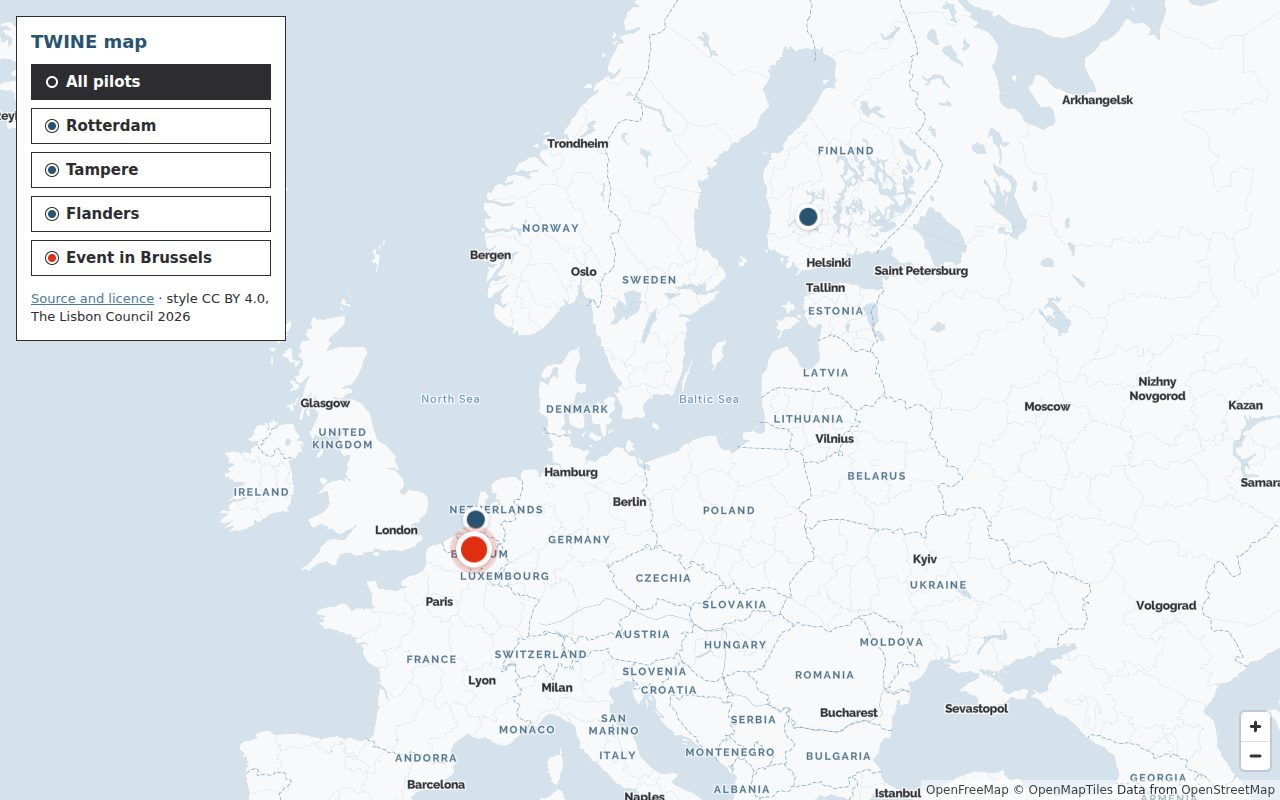
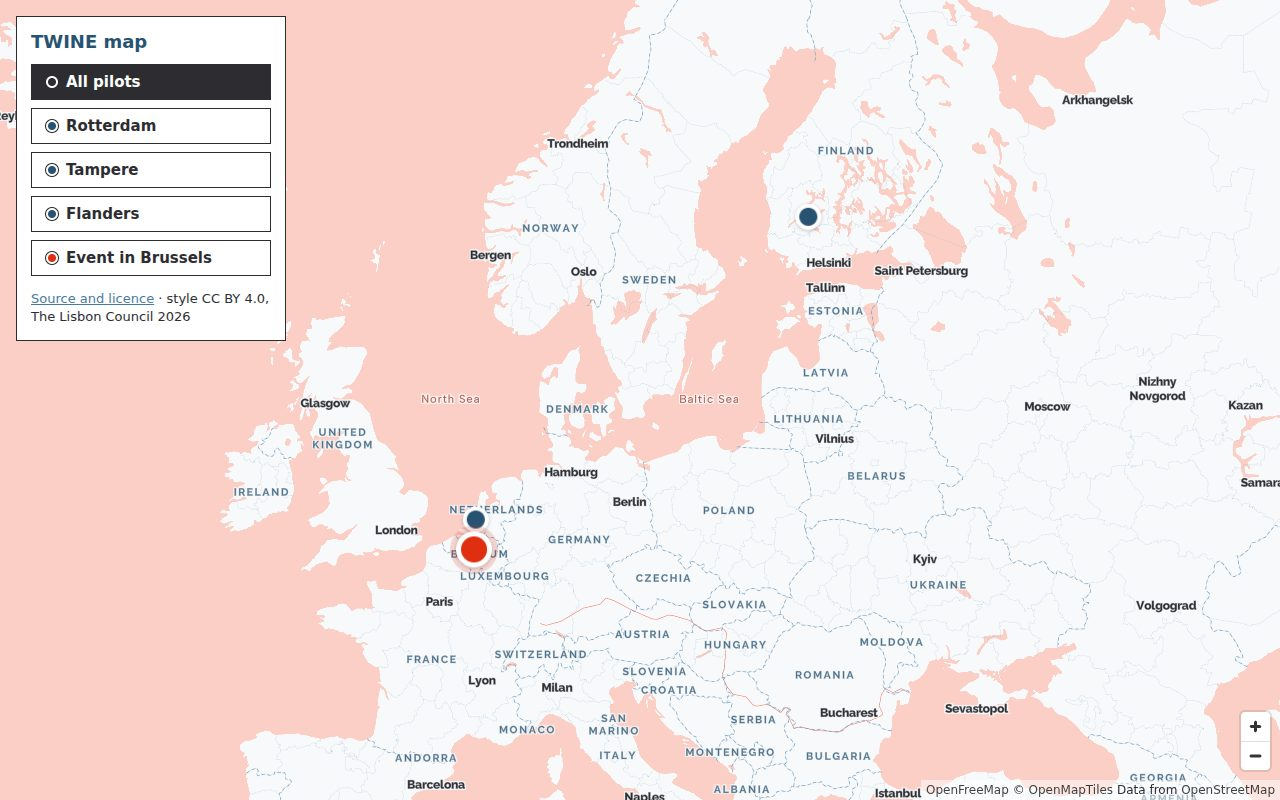
Melon water, cool parks (1.1.0)
Water in a tint of Melon Orange with Melon Orange shores and canals; parks
and woods in tints of Light Steel Blue so that they stay apart from the
warm water.

diff --git a/scripts/make_style.py b/scripts/make_style.py
@@ -11,10 +11,10 @@ OUT = sys.argv[2] if len(sys.argv) > 2 else 'style/twine-style.json'
 C = {
     'bg': '#f7f9fb',          # land, a lighter Mist
     'land2': '#eef3f7',       # residential tint (Mist)
-    'park': '#fcebe7',        # tint of Pastel Peach #f8b0a3
-    'wood': '#f9ded8',
-    'water': '#d5e2ec',       # tint of Light Steel Blue #aac5d8
-    'water_line': '#aac5d8',
+    'park': '#e3ecf2',        # tint of Light Steel Blue #aac5d8
+    'wood': '#d8e4ed',
+    'water': '#fbcfc6',       # tint of Melon Orange #f47d69
+    'water_line': '#f47d69',  # Melon Orange
     'building': '#e8eef3',
     'building_line': '#d8e1e9',
     'road': '#ffffff',
@@ -26,8 +26,8 @@ C = {
     'ink': '#2c2c31',         # Guide Ink
     'text': '#3b3e45',
     'text_soft': '#71757a',   # Sonic Silver
-    'water_text': '#487a9f',  # Steel Blue
-    'park_text': '#a8361f',   # dark Red Orange
+    'water_text': '#a8361f',  # dark Red Orange
+    'park_text': '#285271',   # Slate Blue
     'slate': '#285271',       # Slate Blue
     'halo': '#f7f9fb',
 }

diff --git a/README.md b/README.md
@@ -86,7 +86,7 @@ done
 
 ## Design notes
 
-- **Palette.** Land `#f7f9fb`, residential areas Mist `#eef3f7`, water `#d5e2ec`, parks `#fcebe7`, buildings `#e8eef3`, roads white with Light Steel Blue casing, boundaries in Air Blue, country labels in Slate Blue. Derived from the TWINE Visual Identity Guideline 2026: Slate Blue `#285271`, Steel Blue `#487a9f`, Air Blue `#75a0c0`, Light Steel Blue `#aac5d8`, Red Orange `#df2e10`, Melon Orange `#f47d69`, Pastel Peach `#f8b0a3`, Guide Ink `#2c2c31`.
+- **Palette.** Land `#f7f9fb`, residential areas Mist `#eef3f7`, water in a tint of Melon Orange `#fbcfc6` with Melon Orange shores and canals, parks `#e3ecf2`, buildings `#e8eef3`, roads white with Light Steel Blue casing, boundaries in Air Blue, country labels in Slate Blue. Warm water against a cool ground: the sea is the one bold brand colour of the base map. Derived from the TWINE Visual Identity Guideline 2026: Slate Blue `#285271`, Steel Blue `#487a9f`, Air Blue `#75a0c0`, Light Steel Blue `#aac5d8`, Red Orange `#df2e10`, Melon Orange `#f47d69`, Pastel Peach `#f8b0a3`, Guide Ink `#2c2c31`.
 - **Labels.** English names where available (`name:en`), otherwise the local name in Latin script. Street names stay in the local language. Cities in Raleway ExtraBold, countries in Raleway Bold, everything else in Albert Sans, as in the guideline (Raleway for titles, Albert Sans for text).
 - **Quiet base map.** Points of interest, shop icons, road shields and one-way arrows are hidden on purpose, so that project content stands out. The cool, light ground leaves Red Orange to the markers.
 - **Markers.** A dot with a white ring: Slate Blue for the pilots (Rotterdam, Tampere, Flanders), a larger Red Orange dot for event venues, as on the event pages of the TWINE website. Coordinates in the preview are approximate: city centres, and the middle of the region for Flanders.

diff --git a/CHANGELOG.md b/CHANGELOG.md
@@ -1,5 +1,10 @@
 # Changelog
 
+## 1.1.0 (2026-10-20)
+
+- Water in a tint of Melon Orange (`#fbcfc6`), shores and canals in Melon Orange, water labels in dark Red Orange.
+- Parks and woods in tints of Light Steel Blue, park labels in Slate Blue, so that they stay apart from the warm water.
+
 ## 1.0.0 (2026-10-20)
 
 - First public release: TWINE style (33 layers, OpenMapTiles schema), glyphs for Raleway Bold, Raleway ExtraBold, Albert Sans Regular and Albert Sans SemiBold, preview page with the three pilots and an event venue.
